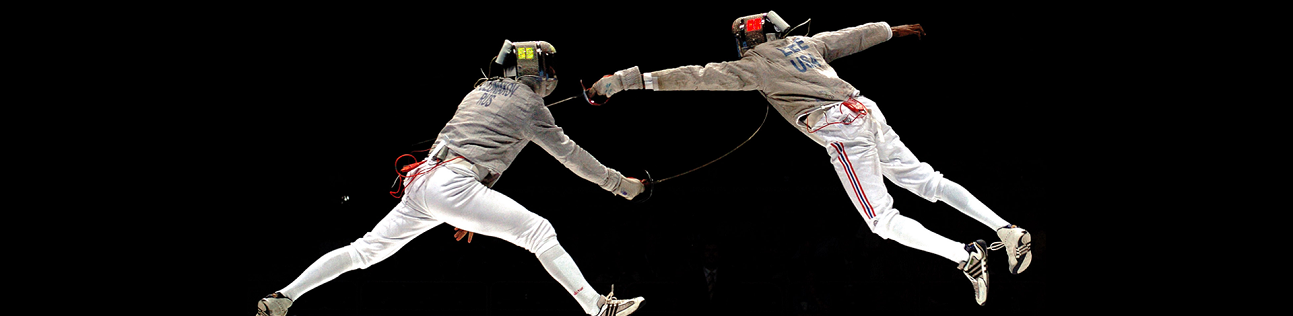
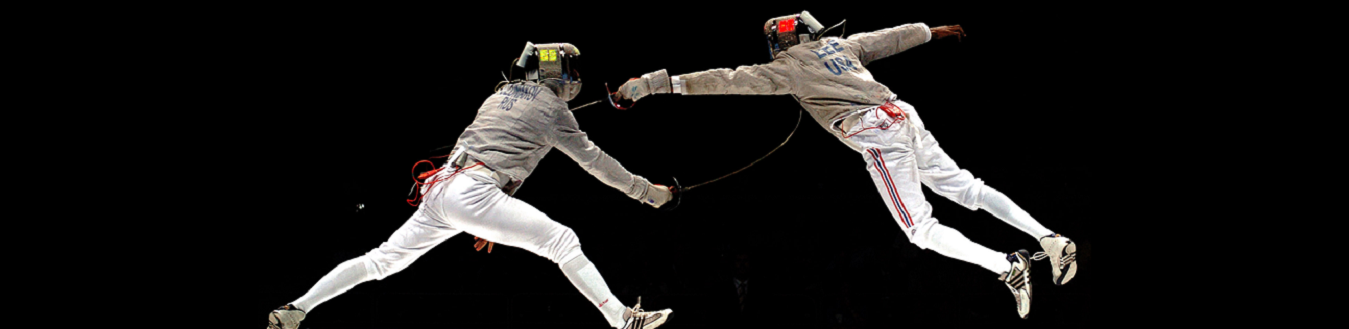
updated img and validation error fix

diff --git a/account.html b/account.html
@@ -84,31 +84,31 @@
 
           <tr class="table-info">
             <!--SUBMIT BUTTON-->
-            <td scope="row" class="align-middle">
+            <td  class="align-middle">
               <div class="form-group-row">
                 <button type="submit" class="btn btn-info"> <i class="far fa-plus-square addbt"></i> Add New Entry</button>
               </div>
             </td>
-            <td scope="row" class="align-middle">
+            <td class="align-middle">
               <div class="form-group-row">
 
                 <input type="date" class="form-control border-info" id="addDate">
               </div>
             </td>
-            <td scope="row" class="align-middle">
+            <td class="align-middle">
               <div class="form-group-row">
 
                 <input type="text" class="form-control border-info" id="addMeet" placeholder="Meet Location">
               </div>
             </td>
-            <td scope="row" class="align-middle">
+            <td class="align-middle">
               <div class="form-group-row">
 
                 <input type="text" class="form-control border-info" id="addOpponent"
                   placeholder="Last name, First name">
               </div>
             </td>
-            <td scope="row" class="align-middle form-label">
+            <td class="align-middle form-label">
               <div class="form-group-row colwid">
 
                 <select class="form-control border-info" id="addWinLoss">
@@ -118,13 +118,13 @@
                 </select>
               </div>
             </td>
-            <td scope="row" class="align-middle">
+            <td class="align-middle">
               <div class="form-group-row colwid">
 
                 <input type="number" min=0 max=15 class="form-control border-info" id="addYourScore">
               </div>
             </td>
-            <td scope="row" class="align-middle">
+            <td class="align-middle">
               <div class="form-group-row colwid">
                 <input type="number" min=0 max=15 class="form-control border-info" id="addOpponentScore">
               </div>

diff --git a/css/account.css b/css/account.css
@@ -15,7 +15,8 @@ table.table-bordered th, table.table-bordered td {
 .jtronimg {
     background-image: url("../img/fencing_lights.png");
     background-repeat: no-repeat;
-    width: 100%;
+    width: 1349px;
+    height: 329px;
 
 }
 
